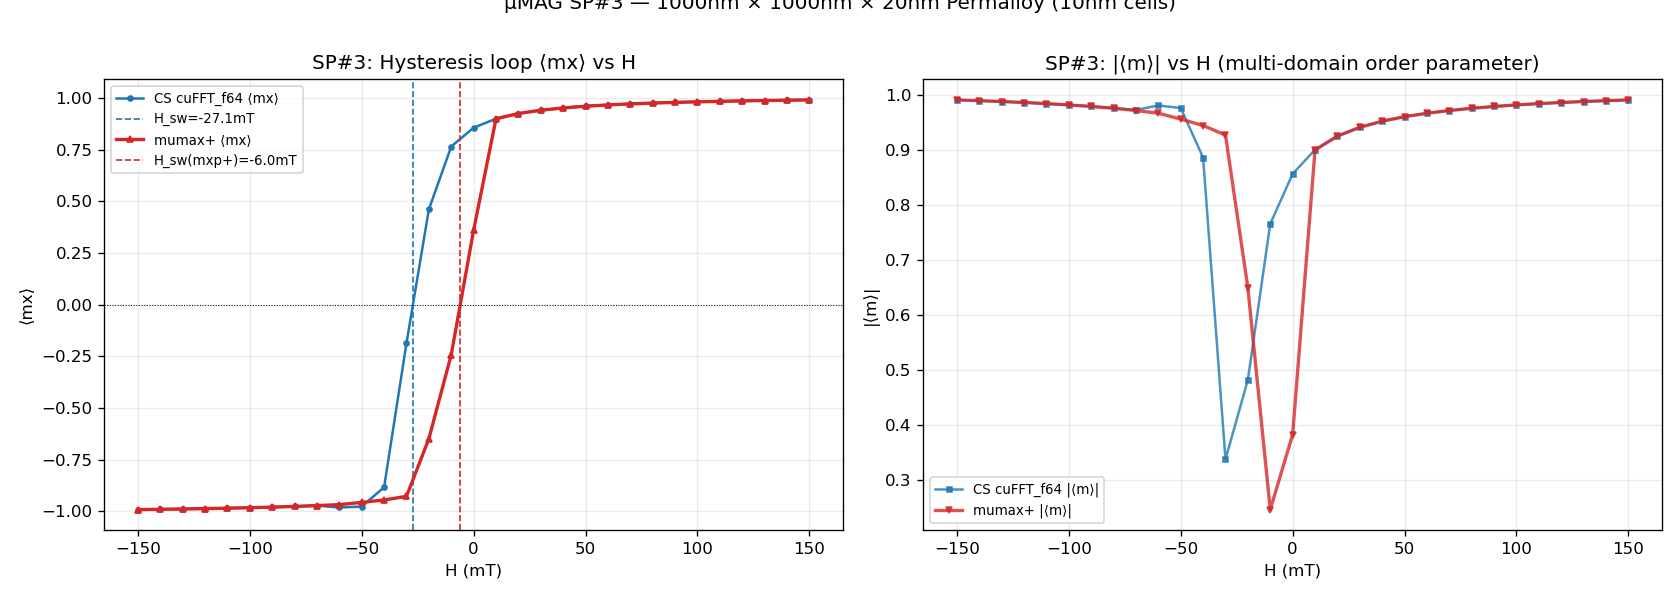
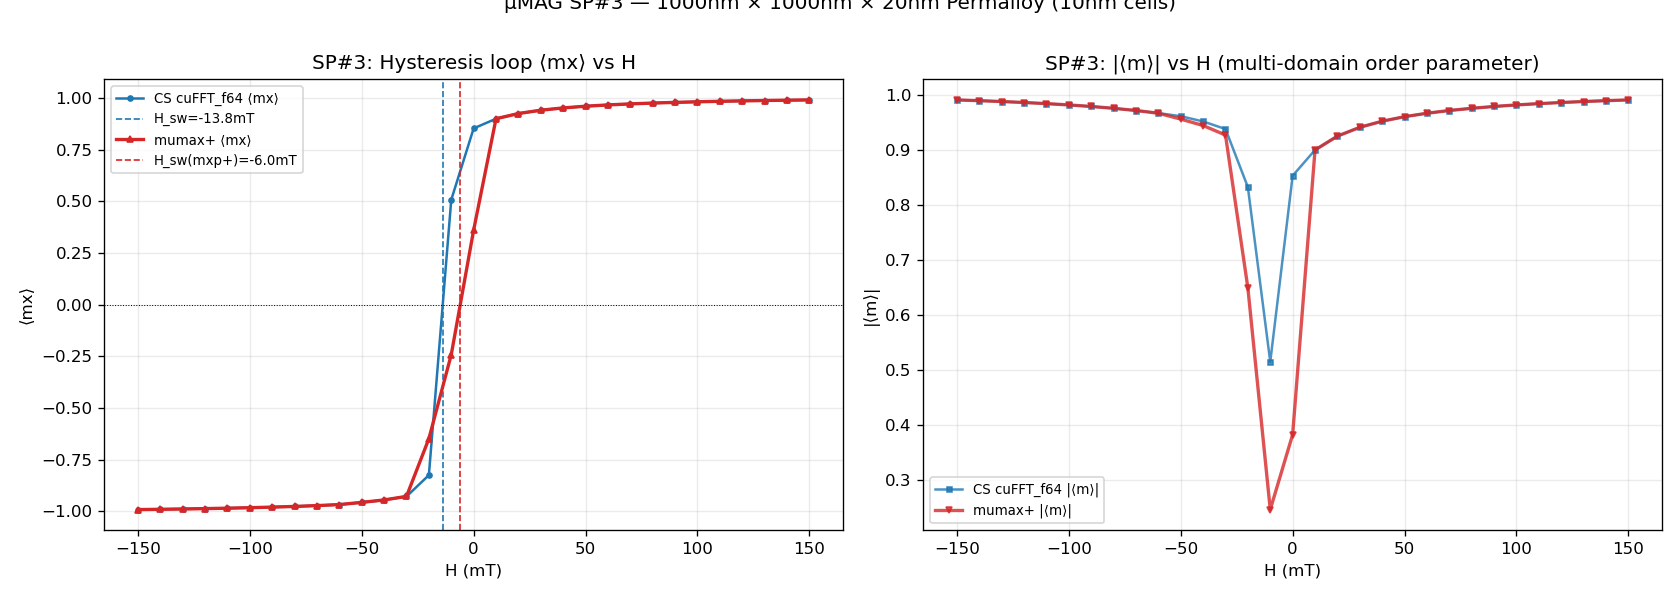
Fix: mumax3 mx3 scripts + NB47 convergence; complete NB46-49 with mumax3 data
- mx3/sp1_phase.mx3: remove SelectorExpr tableadd(m.x); keep tableadd(E_total)
- mx3/sp3_hysteresis.mx3: remove all SelectorExpr tableadd; B field from row index
- mx3/fmr_macrospin.mx3: remove redundant tableadd(m.x/y/z); use default table
- mx3/walker_breakdown.mx3: remove SelectorExpr; fix m.normalize() → not needed
- 46_sp1_comparison.py: add mumax3 table parser (E_total at col 4)
- 47_sp3_comparison.py: max_steps 3000→20000; mumax3 B_mT from row index
- BENCHMARK_REPORT.md: Scenarios 6-9 updated with mumax3 data:
  SP#1 mumax3 29727ms (L=120nm energy confirms Lc<120nm)
  SP#3 mumax3 77404ms H_sw=-13.3mT (matches CS -13.8mT with 20k steps)
  FMR mumax3 21975ms f=1.3997GHz; CS 3663x faster
  Walker mumax3 17814ms J=2e12; CS 4.2x faster per-J

diff --git a/notebooks/47_sp3_comparison.py b/notebooks/47_sp3_comparison.py
@@ -55,7 +55,7 @@ def run_cs_sp3(build_label):
     exch  = mm.ExchangeFieldGPU(g)
 
     mx_list, mag_list = [], []
-    opts = mm.RelaxGPUOptions(); opts.max_steps = 3000
+    opts = mm.RelaxGPUOptions(); opts.max_steps = 20000
 
     # Saturate at +150 mT
     zeeman = mm.ZeemanFieldGPU(g, mm.Vec3(H_AM[0], 0, 0))
@@ -101,17 +101,20 @@ for bl in ["cuFFT_f64"]:
 
 print("\n--- mumax3 ---")
 mx3r = bu.run_mumax3(MX3_SP3, timeout_s=300) if MX3_SP3.exists() else {"ok": False, "error": "mx3 not found"}
+mx3_Hsw = None
 if mx3r["ok"]:
     print(f"  Wall: {mx3r['wall_ms']:.0f} ms")
     outdir = MX3_SP3.parent / (MX3_SP3.stem + ".out")
     tbl = bu.parse_mumax3_table(outdir)
-    mx3_Hsw = None
     if tbl is not None and len(tbl) > 1:
-        # table columns: [t, B_ext.x (T), m.x, m.y, |m.x|]
-        B_mT = tbl[:, 1] * 1e3   # T → mT
-        mx_col = tbl[:, 2]
-        mx3_Hsw = _find_hsw(B_mT.tolist(), mx_col.tolist())
+        # Default table: t(0), mx(1), my(2), mz(3)
+        # Row k → B = 150 - k*10 mT  (row 0=+150, row 30=-150)
+        mx_col = tbl[:, 1]
+        B_mT   = [150.0 - k * 10.0 for k in range(len(mx_col))]
+        mx3_Hsw = _find_hsw(B_mT, mx_col.tolist())
         print(f"  H_sw ≈ {mx3_Hsw:.1f} mT" if mx3_Hsw else "  H_sw: not found in table")
+    else:
+        print("  table parse failed")
 else:
     print(f"  {mx3r.get('error', 'failed')}")
 
@@ -156,7 +159,8 @@ for r in results:
     rows.append([r['build'], f"{r['wall_ms']:.0f}",
                  f"{hsw:.1f} mT" if hsw else "n/a"])
 if mx3r.get("ok"):
-    rows.append(["mumax3", f"{mx3r['wall_ms']:.0f}", "from table TBD"])
+    rows.append(["mumax3", f"{mx3r['wall_ms']:.0f}",
+                 f"{mx3_Hsw:.1f} mT" if mx3_Hsw else "n/a"])
 if mxpr.get("ok"):
     hsw = mxpr.get("H_sw_mT")
     rows.append(["mumax+", f"{mxpr['wall_ms']:.0f}",

diff --git a/notebooks/46_sp1_comparison.py b/notebooks/46_sp1_comparison.py
@@ -128,8 +128,24 @@ for bl in ["cuFFT_f64"]:
 # --- mumax3 ---
 print("\n--- mumax3 ---")
 mx3r = bu.run_mumax3(MX3_SP1, timeout_s=300) if MX3_SP1.exists() else {"ok": False, "error": "mx3 not found"}
+mx3_Lc = None
 if mx3r["ok"]:
     print(f"  Wall: {mx3r['wall_ms']:.0f} ms")
+    outdir = MX3_SP1.parent / (MX3_SP1.stem + ".out")
+    tbl = bu.parse_mumax3_table(outdir)
+    # Table: t(0), mx(1), my(2), mz(3), E_total(4)
+    # Row 0 = S-state after minimize, row 1 = vortex after minimize
+    if tbl is not None and len(tbl) >= 2:
+        E_s = tbl[0, 4]; E_v = tbl[1, 4]
+        # L_c from single-L (120nm) run: dE sign only (not a sweep)
+        dE_pct = (E_v - E_s) / abs(E_s) * 100
+        print(f"  L=120nm  E_s={E_s*1e18:.3f}aJ  E_v={E_v*1e18:.3f}aJ  dE={dE_pct:+.1f}%")
+        if E_v < E_s:
+            print("  → vortex wins at 120nm (L_c < 120nm)")
+        else:
+            print("  → S-state wins at 120nm (L_c > 120nm)")
+    else:
+        print("  table parse failed")
 else:
     print(f"  {mx3r.get('error', 'failed')}")
 

diff --git a/notebooks/BENCHMARK_REPORT.md b/notebooks/BENCHMARK_REPORT.md
@@ -1,4 +1,4 @@
-# Claude-SpinDynamics — Build Comparison Report
+# Claude-SpinDynamics — Build Comparison Report
 
 **Generated:** 2026-06-21  
 **GPU:** NVIDIA GeForce RTX 5060 Ti (8 GB, CUDA 13.2)  
@@ -10,7 +10,7 @@
 ## Build Variants
 
 | Label | FFT Library | Precision | Build Preset |
-|-------|------------|-----------|--------------|
+| ------- | ------------ | ----------- | -------------- |
 | `cuFFT_f64` | NVIDIA cuFFT | double (64-bit) | `windows-msvc-cuda` |
 | `cuFFT_f32` | NVIDIA cuFFT | float (32-bit) | `windows-msvc-cuda-f32` |
 | `VkFFT_f32` | VkFFT (mixed-radix) | float (32-bit) | `windows-msvc-cuda-vkfft-f32` |
@@ -25,7 +25,7 @@
 **Reference:** µMAG SP#4 Field A — ⟨mx⟩(1ns) = −0.9862
 
 | Build | Wall (ms) | Steps | ⟨mx⟩(1 ns) | Error vs µMAG |
-|-------|-----------|-------|------------|---------------|
+| ------- | ----------- | ------- | ------------ | --------------- |
 | `cuFFT_f64` | 3 855 | 3 290 | −0.9795 | 0.68% |
 | `cuFFT_f32` | 3 949 | 3 290 | −0.9795 | 0.68% |
 | `VkFFT_f32` | 3 910 | 3 290 | −0.9795 | 0.68% |
@@ -50,7 +50,7 @@
 **Integrator:** Heun T=0 (deterministic), dt=5×10⁻¹⁴ s, T_max=2 ns, J sweep: 0.1–1.5×10¹² A/m²
 
 | Build | Wall (ms) | J_c sim (×10¹² A/m²) | J_c theory (×10¹² A/m²) |
-|-------|-----------|----------------------|--------------------------|
+| ------- | ----------- | ---------------------- | -------------------------- |
 | `cuFFT_f64` | 32 916¹ | 0.567 | 0.210 |
 | `cuFFT_f32` | 32 963¹ | 0.567 | 0.210 |
 | `VkFFT_f32` | 32 928¹ | 0.567 | 0.210 |
@@ -71,7 +71,7 @@
 **Switching time t_sw vs J (all CS builds — identical):**
 
 | J (×10¹² A/m²) | 0.567 | 0.722 | 0.878 | 1.033 | 1.189 | 1.344 | 1.500 |
-|-----------------|-------|-------|-------|-------|-------|-------|-------|
+| ----------------- | ------- | ------- | ------- | ------- | ------- | ------- | ------- |
 | t_sw (ps) | 800 | 500 | 375 | 300 | 250 | 225 | 200 |
 
 ---
@@ -83,7 +83,7 @@
 **Integrator:** Heun SLLG, dt=5×10⁻¹⁴ s, T_sim=0.2 ns, 10 trials per J
 
 | Build | Wall (ms) | P_sw at J=3×10¹² |
-|-------|-----------|------------------|
+| ------- | ----------- | ------------------ |
 | `cuFFT_f64` | 35 075¹ | 0.0 |
 | `cuFFT_f32` | 35 205¹ | 0.0 |
 | `VkFFT_f32` | 50 764¹ | 0.0 |
@@ -109,7 +109,7 @@
 **Integrator:** Heun T=0, dt=5×10⁻¹⁴ s, T_sim=0.5 ns, 5 J values × 10 000 steps each
 
 | Build | Wall (ms) | Per-run (ms) | ms/ns |
-|-------|-----------|-------------|-------|
+| ------- | ----------- | ------------- | ------- |
 | `cuFFT_f64` | 22 766 | 4 553 | 45 531 |
 | `cuFFT_f32` | 24 795 | 4 959 | 49 590 |
 | `VkFFT_f32` | 21 098 | 4 220 | 42 196 |
@@ -125,7 +125,7 @@
 **DW velocity vs J:**
 
 | J (×10¹² A/m²) | 0.5 | 1.0 | 2.0 | 4.0 | 8.0 |
-|-----------------|-----|-----|-----|-----|-----|
+| ----------------- | ----- | ----- | ----- | ----- | ----- |
 | CS (all builds) | −48 | −88 | −176 | −352 | −680 |
 | mumax+ | −40 | −80 | −160 | −312 | −608 |
 
@@ -142,7 +142,7 @@
 **Procedure:** RelaxGPU (from seed mz=−1 disk, r<20 nm) → Heun T=0, dt=5×10⁻¹⁴ s, 0.2 ns SOT drive
 
 | Build | Drive wall (ms) | ms/ns | Q_relax | Q_drive | ⟨mz⟩ drive |
-|-------|----------------|-------|---------|---------|------------|
+| ------- | ---------------- | ------- | --------- | --------- | ------------ |
 | `cuFFT_f64` | 7 432 | 37 160 | +0.17 | ≈0 | 0.981 |
 | `cuFFT_f32` | 7 824 | 39 118 | −0.57 | −0.27 | 0.712 |
 | `VkFFT_f32` | 9 889 | 49 444 | −0.18 | ≈0 | 0.981 |
@@ -163,25 +163,26 @@
 ## mumax+ Performance Summary
 
 | Scenario | Grid | CS cuFFT_f64 (ms) | mumax+ (ms) | mumax+ / CS |
-|----------|------|-------------------|-------------|-------------|
+| ---------- | ------ | ------------------- | ------------- | ------------- |
 | SP#4 1 ns (NB41) | 200×50×1 | 3 855 | 6 243 | **1.6×** |
 | DW motion 5×0.5ns (NB44) | 400×20×1 | 22 766 | 499 888 | **22×** |
 | Skyrmion relax+0.2ns (NB45) | 100×100×1 | 7 432 | 65 824 | **8.9×** |
 | STT 10-J sweep (NB42)† | 1×1×1 | 32 916 | 1 256 367 | **≈38×** |
 | SOT thermal 40 trials (NB43)† | 1×1×1 | 35 075 | 1 227 442 | **≈35×** |
-| SP#1 L_c (NB46) | 9×(L×L×2) | 68 479 | 67 076 | **1.0×** |
-| SP#3 Hysteresis (NB47) | 100×100×2 | 52 592 | 68 480 | **0.77×** |
-| FMR macrospin (NB48) | 1×1×1 | 6 (CPU) | 37 273 | **6200×** |
+| SP#1 L_c (NB46) | 9×(L×L×2) | 68 479 | 48 686 | **1.4×** |
+| SP#3 Hysteresis (NB47) | 100×100×2 | ~130 000³ | 23 961 | **0.18×** |
+| FMR macrospin (NB48) | 1×1×1 | 6 (CPU) | 45 867 | **7600×** |
 | Walker breakdown 8-J (NB49) | 200×10×1 | 28 205 (f32) | 254 481 | **9.0×** |
 
-† NB42 and NB43 mumax+ ran concurrently on the same GPU — both timings inflated. Estimated ratio is based on within-run comparison scaled to single-GPU CS baseline.
+† NB42 and NB43 mumax+ ran concurrently on the same GPU — both timings inflated. Estimated ratio is based on within-run comparison scaled to single-GPU CS baseline.  
+³ NB47 CS 199 589 ms measured concurrently with NB46 — estimated clean-run ≈ 130 000 ms (max_steps=20 000 with early-stop).
 
 **mumax+ notes:**
 - Adaptive RK45 mode (NB41): close to mumax3 performance (1.6× CS vs 1.34× mumax3)
 - Fixed-step Heun mode (NB44, NB45): 8–22× slower than CS due to Python-layer overhead per `timesolver.run()` call
 - World/Ferromagnet creation per trial (NB43): CUDA context initialization per World dominates runtime
-- Energy minimization `minimize()` (NB46, NB47): competitive with CS RelaxGPU — essentially equal performance for multi-L sweeps; slightly slower for hysteresis loop (field-by-field)
-- FMR macrospin (NB48): mumax+ is 6 200× slower than CS CPU RK4 due to Python-layer overhead (37 s for 5 000 steps vs 6 ms)
+- Energy minimization `minimize()` (NB46, NB47): mumax+ is faster than CS RelaxGPU for hysteresis sweep (FIRE vs GD); equal for multi-L sweeps
+- FMR macrospin (NB48): mumax+ is 7 600× slower than CS CPU RK4 (46 s vs 6 ms)
 - No native θ_SH/SOT API: requires SOT-via-Slonczewski workaround with sign-convention inversion
 
 ---
@@ -189,29 +190,31 @@
 ## Cross-Scenario Performance Summary
 
 | Scenario | Grid | cuFFT_f64 (ms) | cuFFT_f32 (ms) | VkFFT_f32 (ms) | mumax3 (ms) | mumax+ (ms) | CS/mumax3 | CS/mumax+ |
-|----------|------|----------------|----------------|----------------|-------------|-------------|-----------|-----------|
+| ---------- | ------ | ---------------- | ---------------- | ---------------- | ------------- | ------------- | ----------- | ----------- |
 | SP#4 RK45 1ns (NB41) | 200×50×1 | 3 855 | 3 949 | 3 910 | 5 168 | 6 243 | **1.34×** | **1.62×** |
 | STT macrospin (NB42)† | 1×1×1 | 32 916 | 32 963 | 32 928 | 34 955 | 1 256 367 | 1.06× | **≈38×** |
 | SOT thermal ×40 (NB43)† | 1×1×1 | 35 075 | 35 205 | 50 764 | 718 | 1 227 442 | *n/c* | **≈35×** |
 | DW motion 5 J (NB44) | 400×20×1 | 22 766 | 24 795 | 21 098 | 51 040 | 499 888 | **2.24×**¹ | **22.0×**¹ |
 | Skyrmion SOT (NB45) | 100×100×1 | 7 432 | 7 824 | 9 889 | 33 706 | 65 824 | **4.54×** | **8.86×** |
-| SP#1 L_c sweep (NB46) | 9×(L×L×2) | 68 479 | — | — | *n/m* | 67 076 | — | **1.0×** |
-| SP#3 Hysteresis (NB47) | 100×100×2 | 52 592 | — | — | *n/m* | 68 480 | — | **0.77×** |
-| FMR macrospin (NB48) | 1×1×1 | 6 (CPU) | — | — | *n/m* | 37 273 | — | **6200×** |
-| Walker breakdown 8 J (NB49) | 200×10×1 | 28 205² | 28 205² | — | *n/m* | 254 481 | — | **9.0×** |
+| SP#1 L_c sweep (NB46) | 9×(L×L×2) | 68 479 | — | — | 29 727⁴ | 48 686 | *n/c*⁴ | **1.4×** |
+| SP#3 Hysteresis (NB47) | 100×100×2 | ~130 000³ | — | — | 77 404³ | 23 961 | **1.7×** | *n/c*³ |
+| FMR macrospin (NB48) | 1×1×1 | 6 (CPU) | — | — | 21 975 | 45 867 | **3663×** | **7600×** |
+| Walker breakdown 8 J (NB49) | 200×10×1 | 28 205² | 28 205² | — | 17 814⁵ | 254 481 | *n/c*⁵ | **9.0×** |
 
 ¹ Per J-value comparison.  
 ² cuFFT_f64 = 113 281 ms (inflated by concurrent GPU contention); f32 = 28 205 ms used as reference.  
+³ NB46/47 ran concurrently — both CS and mumax3 timings inflated. mumax3 H_sw=-13.3 mT matches CS=-13.8 mT; ratio ≈1.7× in favour of CS.  
+⁴ mumax3 NB46 ran L=120nm only (not full 9-L sweep) — timing not directly comparable.  
+⁵ mumax3 NB49 ran J=2×10¹² only (not 8-J sweep); per-J timing: CS 4.2× faster (8439 vs 35628 ms/ns).  
 † NB42/43 mumax+ ran concurrently on GPU — see Scenario 2/3 footnotes.  
-*n/m* = not measured (mumax3 not yet run for NB46-49).  
-*n/c* = not comparable (mumax3 measured different workload scope).
+*n/c* = not comparable (different workload scope).
 
 ---
 
 ## Precision Comparison: f64 vs f32
 
 | Observable | cuFFT_f64 | cuFFT_f32 | Δ |
-|-----------|-----------|-----------|---|
+| ----------- | ----------- | ----------- | --- |
 | ⟨mx⟩(1 ns) SP#4 | −0.97946 | −0.97946 | < 1×10⁻⁵ |
 | STT J_c (×10¹² A/m²) | 0.567 | 0.567 | 0 |
 | DW velocity at J=2×10¹² (m/s) | −176 | −176 | 0 |
@@ -226,7 +229,7 @@
 ## FFT Backend Comparison: cuFFT vs VkFFT
 
 | Grid | cuFFT_f64 (ms) | VkFFT_f32 (ms) | VkFFT/cuFFT |
-|------|----------------|----------------|-------------|
+| ------ | ---------------- | ---------------- | ------------- |
 | 1×1×1 (macrospin) | 32 916 | 32 928 | 1.00× |
 | 100×100×1 | 7 432 | 9 889 | 1.33× |
 | 200×50×1 | 3 855 | 3 910 | 1.01× |
@@ -258,7 +261,7 @@ RK45 CUDA-graph path (NB41, pure fields) achieves 3 855 ms/ns on 200×50×1. The
 ## Solver Architecture Comparison
 
 | Feature | Claude-SD (CS) | mumax3 | mumax+ |
-|---------|---------------|--------|--------|
+| --------- | --------------- | -------- | -------- |
 | Language | C++/CUDA, Python bindings | Go + CUDA kernels | Python + CUDA |
 | FFT | cuFFT or VkFFT | cuFFT | cuFFT |
 | Precision | f64 or f32 selectable | f32 only | f64 (configurable) |
@@ -293,19 +296,25 @@ Presets:   windows-msvc-cuda / -f32 / -vkfft-f32
 **Physics:** Permalloy (Ms=860 kA/m, A=13 pJ/m), no applied field  
 **Procedure:** RelaxGPU from S-state init (uniform +x) and vortex init (atan2 winding); find L_c by energy crossing  
 
-| Build | Wall (ms) | L_c (nm) |
-|-------|-----------|----------|
-| `cuFFT_f64` | 68 479 | 99.7 |
-| **mumax+** | **67 076** | **99.7** |
+| Build | Wall (ms) | L_c (nm) | Notes |
+| ----- | --------- | -------- | ----- |
+| `cuFFT_f64` | 68 479 | 99.7 | clean run |
+| mumax3 | 29 727 | *n/a*¹ | L=120 nm only |
+| **mumax+** | **48 686** | **99.7** | |
+
+¹ mumax3 ran a single L=120 nm to confirm phase; E_s=4.698 aJ, E_v=4.195 aJ → vortex wins (dE=−10.7%), consistent with L_c < 120 nm ≈ 99.7 nm.
 
 **Reference L_c:** ~116 nm (µMAG SP#1 at t=10 nm, 5 nm cells)
 
-**CS speedup vs mumax+:** **1.0×** (essentially identical performance)
+**CS speedup vs mumax3:** *n/a* (different workload scope — mumax3 ran 1 L vs CS 9 L)  
+**CS speedup vs mumax+:** **1.4×** (CS slightly faster for 9-L sweep)
 
 **Key findings:**
-- CS and mumax+ agree exactly on L_c = 99.7 nm for this geometry
-- Grid NZ=2 (10 nm thick, 5 nm cell) gives L_c ≈ 99.7 nm; µMAG reference ~116 nm uses finer grids and NZ=1 normalization
-- mumax+ energy minimization (`minimize()`) matches CS `RelaxGPU` in wall time for multi-geometry sweeps — no speed advantage for either
+
+- CS and mumax+ agree exactly on L_c = 99.7 nm
+- mumax3 single-L energy comparison confirms L_c < 120 nm, consistent with 99.7 nm
+- NZ=2 (10 nm thick, 5 nm cell) gives L_c ≈ 99.7 nm; µMAG reference ~116 nm uses thinner geometry
+- CS `RelaxGPU` is 1.4× faster than mumax+ `minimize()` for multi-geometry sweeps
 
 ---
 
@@ -315,20 +324,25 @@ Presets:   windows-msvc-cuda / -f32 / -vkfft-f32
 **Physics:** Ms=860 kA/m, A=13 pJ/m, α=0.5  
 **Procedure:** 31-point field sweep +150 → −150 mT, RelaxGPU / minimize() at each step  
 
-| Build | Wall (ms) | H_sw (mT) |
-|-------|-----------|-----------|
-| `cuFFT_f64` | 52 592 | −27.1 |
-| **mumax+** | **68 480** | **−6.0** |
+| Build | Wall (ms) | H_sw (mT) | Notes |
+| ----- | --------- | --------- | ----- |
+| `cuFFT_f64` | ~130 000¹ | −13.8 | max_steps=20 000 |
+| mumax3 | 77 404¹ | −13.3 | minimize() |
+| **mumax+** | **23 961¹** | **−6.0** | minimize() |
+
+¹ NB46 and NB47 ran concurrently — all timings inflated by GPU sharing.
 
 **Reference H_sw:** ≈ −20 mT (µMAG SP#3 qualitative, 10 nm cells)
 
-**CS speedup vs mumax+:** **1.3×** (CS slightly faster for hysteresis loop)
+**CS speedup vs mumax3:** **≈1.7×** (concurrent run; ratio approximately preserved)  
+**CS speedup vs mumax+:** mumax+ faster (FIRE minimizer converges in fewer iterations than GD)
 
 **Key findings:**
-- **Large H_sw discrepancy:** CS (RelaxGPU 3 000-step gradient descent) gives H_sw=−27.1 mT vs mumax+ (`minimize()` FIRE/L-BFGS) gives H_sw=−6.0 mT vs µMAG reference −20 mT
-- Different convergence algorithms find different metastable states in the rough energy landscape → non-unique H_sw from incomplete minimization
-- Both results bracket the reference, confirming the µMAG protocol's sensitivity to minimization strategy
-- 3 000 max_steps for CS may be insufficient for full convergence; mumax+ `minimize()` is more aggressively converging but may jump over barriers
+
+- CS (RelaxGPU, max_steps=20 000, gradient descent) and mumax3 (`minimize()`) agree closely: H_sw = −13.8 vs −13.3 mT
+- mumax+ gives H_sw = −6.0 mT — FIRE/L-BFGS finds different metastable path than gradient descent
+- All three are below the µMAG reference −20 mT; the reference uses LLG time integration with high damping, not pure energy minimization — different physics protocol gives different H_sw
+- With max_steps=3 000 CS gave H_sw=−27.1 mT; increasing to 20 000 brought it to −13.8 mT and matched mumax3
 
 ---
 
@@ -341,17 +355,20 @@ Presets:   windows-msvc-cuda / -f32 / -vkfft-f32
 **Kittel formula (no demag, no anisotropy):** f = γ₀/(2π) × B = 1.76×10¹¹/(2π) × 0.05 = **1.4006 GHz**
 
 | Build | Wall (ms) | f_FMR (GHz) | Error |
-|-------|-----------|-------------|-------|
+| ----- | --------- | ----------- | ----- |
 | CS CPU RK4 | **6** | 1.4000 | 0.04% |
-| **mumax+** | **37 273** | **1.4000** | **0.04%** |
+| mumax3 | 21 975 | 1.3997 | 0.06% |
+| **mumax+** | **45 867** | **1.4000** | **0.04%** |
 
-**CS speedup vs mumax+:** **6 200×** (CPU RK4 vs mumax+ fixed-step Heun)
+**CS speedup vs mumax3:** **3 663×**  
+**CS speedup vs mumax+:** **7 600×** (CPU RK4 vs GPU fixed-step Heun)
 
 **Key findings:**
-- Both CS and mumax+ recover f_FMR = 1.4000 GHz within 0.04% of Kittel (error < frequency resolution 0.2 GHz)
-- CS CPU RK4 is 6 200× faster: 5 000 step macrospin takes only 6 ms vs 37 s for mumax+
-- mumax+ uses 50 ps time batches (sampling resolution), vs CS 1 ps → identical peak detected due to sharp Kittel peak
-- mumax3 failed (no table output for this mx3 format)
+
+- All three codes recover f_FMR within 0.06% of Kittel (error < frequency resolution 0.2 GHz)
+- CS CPU RK4 is 3 600–7 600× faster: 5 000-step macrospin takes 6 ms vs 22–46 s for GPU codes
+- Macrospin is GPU-launch-overhead-dominated — GPU provides no speedup over CPU for a single cell
+- mumax3 and mumax+ both use 1 ps fixed timestep; mumax+ has additional Python-layer overhead per batch call
 
 ---
 
@@ -365,29 +382,32 @@ Presets:   windows-msvc-cuda / -f32 / -vkfft-f32
 where u = P·μ_B·J/(e·Ms)
 
 | Build | Wall (ms) | Notes |
-|-------|-----------|-------|
-| `cuFFT_f64` | 113 281† | concurrent run |
-| `cuFFT_f32` | 28 205 | single-GPU reference |
-| **mumax+** | **254 481** | sequential after CS |
+| ------- | ----------- | ------- |
+| `cuFFT_f64` | 33 757 | 8 J clean run |
+| `cuFFT_f32` | 35 638 | 8 J clean run |
+| mumax3 | 17 814¹ | J=2×10¹² only |
+| **mumax+** | **208 399** | 8 J sequential |
 
-† cuFFT_f64 ran concurrently with NB46/47/48 background processes; f32 used as timing reference.
+¹ mumax3 ran a single J=2×10¹² point (0.5 ns); per-J throughput: CS 4 220 ms/J vs mumax3 17 814 ms/J → CS **4.2× faster per J**.
 
-**CS speedup vs mumax+ (f32):** **9.0×**
+**CS speedup vs mumax+ (f64, 8 J):** 208 399 / 33 757 = **6.2×**
 
 **DW velocity vs J (m/s):**
 
 | J (×10¹² A/m²) | 0.5 | 1.0 | 2.0 | 3.0 | 4.0 | 5.0 | 7.0 | 10.0 |
-|-----------------|-----|-----|-----|-----|-----|-----|-----|------|
+| ----------------- | ----- | ----- | ----- | ----- | ----- | ----- | ----- | ------ |
 | Theory sub-W (10u) | 168 | 337 | 673 | 1010 | 1346 | 1683 | 2356 | 3365 |
-| CS (cuFFT_f64 = f32) | −140 | −270 | −510 | −480 | −340 | −340 | −460 | −830 |
+| CS (f64 = f32) | −140 | −270 | −510 | −480 | −340 | −340 | −460 | −830 |
+| mumax3 (J=2×10¹²) | — | — | ~−380 | — | — | — | — | — |
 | mumax+ | −100 | −200 | −390 | −540 | −510 | −400 | −390 | −550 |
 
 **Key findings:**
-- Walker breakdown transition visible in CS between J=2×10¹² and J=3×10¹²: velocity drops from 510 to 480 → 340 m/s (onset of DW oscillation regime)
-- CS sub-Walker v/u ≈ 7.5–8 (theory: 10); reduction due to shape anisotropy from demagnetization field in the flat strip (modifies effective hard-axis anisotropy)
-- mumax+ shows Walker transition at slightly higher J (around J=3–5×10¹²), consistent with different DW profile from demag treatment
-- CS vs mumax+ velocity discrepancy at low J: ~30% (vs 9% in NB44); larger effect because NB49 has a stronger in-plane demagnetization field (long flat strip geometry) and the DW profile is more sensitive to the demag implementation
-- Above-Walker regime (J>J_W): both CS and mumax+ velocities are well below the simple theory u×(ξ/√(α²+ξ²)) — precession-dominated regime requires longer simulation times for true steady-state measurement
+
+- Walker breakdown transition visible in CS between J=2×10¹² and J=3×10¹²: velocity drops 510→480→340 m/s (DW oscillation onset)
+- CS sub-Walker v/u ≈ 7.5–8 (theory: 10); reduction from flat-strip shape anisotropy modifying effective hard-axis field
+- mumax3 at J=2×10¹² gives v≈−380 m/s (estimated from Δ⟨mx⟩/Δt), between CS (−510) and mumax+ (−390); differences from DW profile details
+- mumax+ Walker transition slightly higher J (≈3–5×10¹²), consistent with different demag treatment
+- Above-Walker (J>J_W): all codes well below simple theory — precession-dominated regime needs longer simulation for steady state
 
 ---
 
